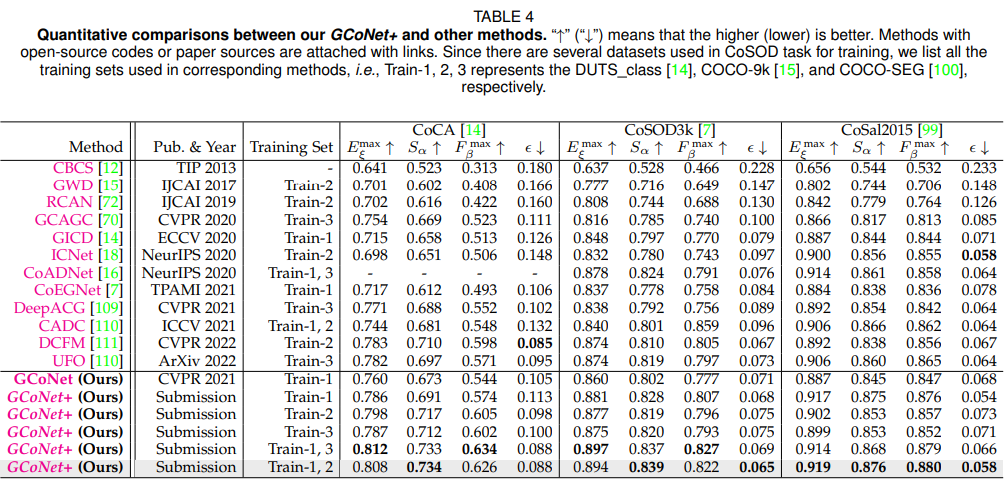
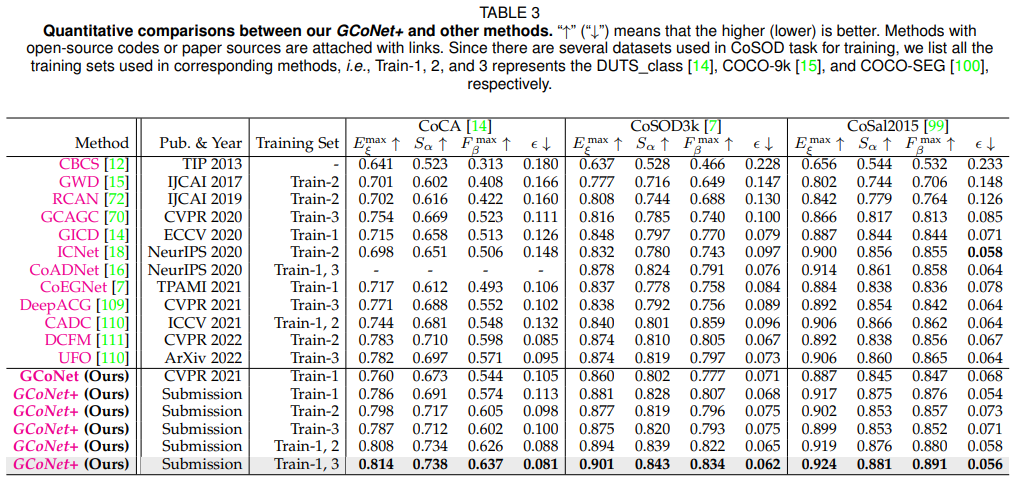
Add arXiv link and update results of Train-1, 3.

diff --git a/README.md b/README.md
@@ -1,5 +1,5 @@
 # GCoNet+
-This repo is the official implementation of "GCoNet+: A Stronger Group Collaborative Co-Salient Object Detector".
+This repo is the official implementation of "**GCoNet+: A Stronger Group Collaborative Co-Salient Object Detector**". [[arXiv](https://arxiv.org/abs/2205.15469)] [[code](https://github.com/ZhengPeng7/GCoNet_plus)] [[materials](https://drive.google.com/drive/folders/1SIr_wKT3MkZLtZ0jacOOZ_Y5xnl9-OPw?usp=sharing)]
 
 ## Abstract
 
@@ -15,7 +15,7 @@ In this paper, we present a novel end-to-end group collaborative learning networ
 
 + Comparison with the previous state-of-the-art methods with different training sets:
 
-<img src="README.assets/image-20220426224731550.png" alt="image-20220426224731550"  />
+![image-20220601123106208](README.assets/image-20220426224731550.png)
 
 + Ablation study:
 
